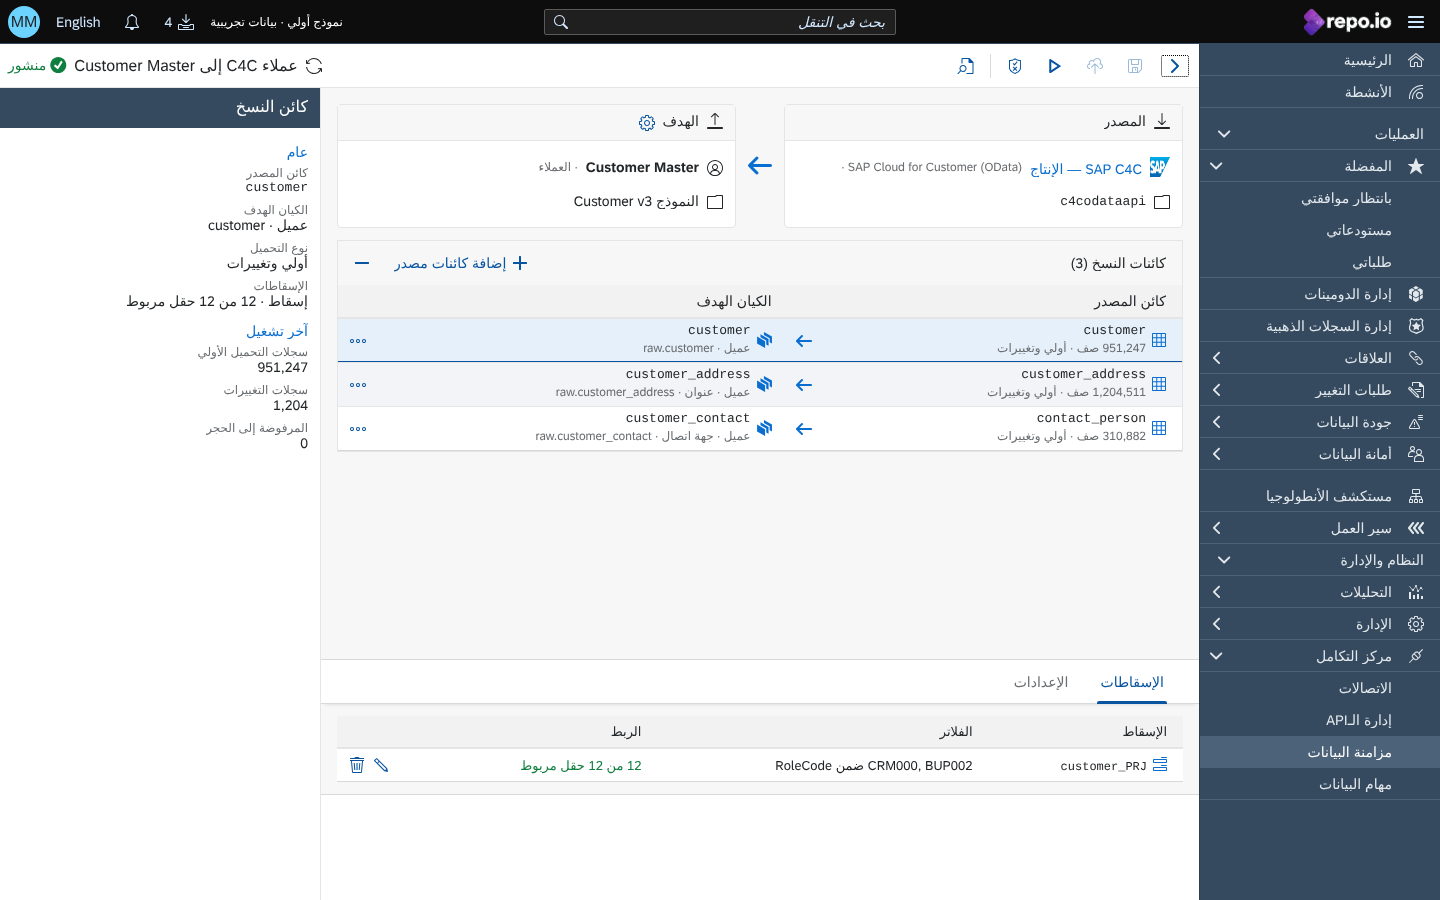
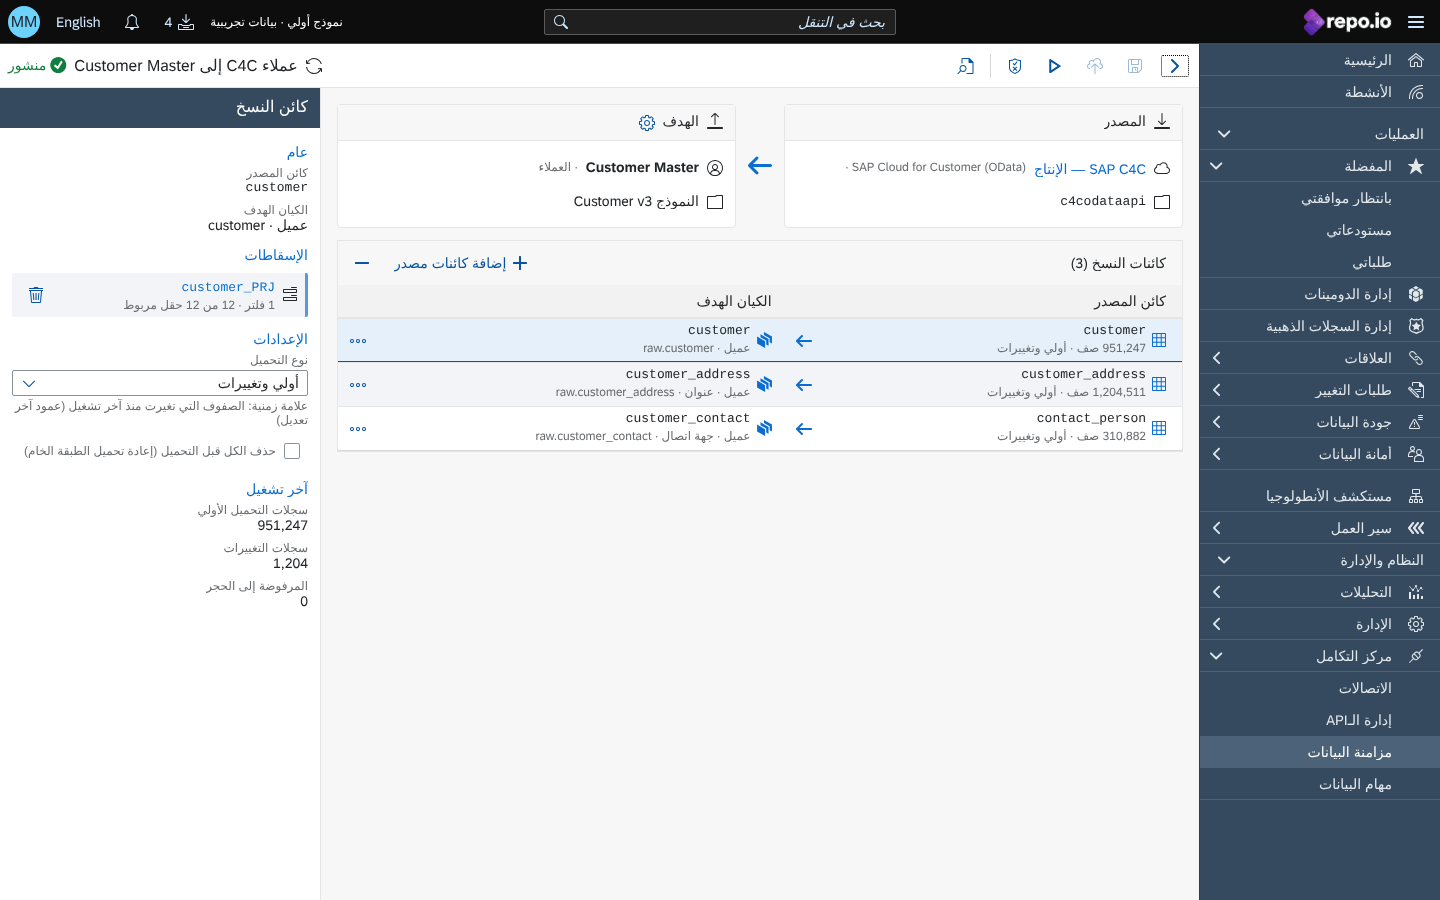
feat(repoio-ui): replication flow object properties in the side panel and Datasphere-style projection filter
- object Projections (Add), Settings (Load Type, Delete All Before Loading) and
  last run move into the properties panel; the bottom tabs are removed
- projection Filter tab: source column list + expressions
- J15 and README updated

Claude-Session: https://claude.ai/code/session_014MwTwj4qVcnTAy3XtzTwBt

diff --git a/repoio-ui/design-reference/openui5-prototype/webapp/controller/DataSync.controller.js b/repoio-ui/design-reference/openui5-prototype/webapp/controller/DataSync.controller.js
@@ -102,9 +102,10 @@ sap.ui.define([
 			vm.setProperty("/sf/oLoadText", this.text(o.load === "delta" ? "ds.load.delta" : "ds.load.initial"));
 			vm.setProperty("/sf/deltaText", this.text("ds.dm." + S.deltaMethod(conn)));
 			vm.setProperty("/sf/oMapText", (o.projection ? this.text("ds.pjOn") : this.text("ds.pjOff")) + " · " + mapText);
-			vm.setProperty("/sf/oProj", o.projection ? [{ name: o.projectionName || o.source.replace(/^.*\./, "") + "_PRJ",
-				filterText: (o.filters || []).length ? o.filters.map(function (x) { return x.col + " " + that.text("ds.op." + x.op + "S") + " " + x.val; }).join("; ") : this.text("ds.noFilter"),
-				mapText: mapText, mapState: okReq ? "Success" : "Error" }] : []);
+			vm.setProperty("/sf/oPrjName", o.projectionName || o.source.replace(/^.*\./, "") + "_PRJ");
+			vm.setProperty("/sf/oPrjSub", ((o.filters || []).length ? this.text("ds.prjFilters", [o.filters.length]) : this.text("ds.noFilter")) + " · " + mapText);
+			var missing = fields.filter(function (x) { return x.req && !o.mapping[x.name]; }).map(function (x) { return x.name; });
+			vm.setProperty("/sf/oMissing", missing.length ? this.text("ds.pj.missing", [missing.join(", ")]) : "");
 			var l = o.last || {};
 			vm.setProperty("/sf/oInitial", l.initial ? this.fmt.num(l.initial) : "—");
 			vm.setProperty("/sf/oDelta", l.initial ? this.fmt.num(l.delta || 0) : "—");
@@ -275,7 +276,7 @@ sap.ui.define([
 				], itemSelected: function (e) {
 					var k = e.getParameter("item").getKey();
 					if (!k) { return; }
-					if (k === "__pj") { that._select(i); that.viewModel().setProperty("/sf/tab", "projections"); that.onProjection(); return; }
+					if (k === "__pj") { that._select(i); that.onProjection(); return; }
 					o.entity = k; o.mapping = that._autoMap(o.source, k); that._dirty();
 				} });
 			this.getView().addDependent(oMenu);
@@ -306,7 +307,7 @@ sap.ui.define([
 			var that = this, vm = this.viewModel(), o = this._f.objects[vm.getProperty("/sf/selIdx")],
 				src = (this._sync.source[o.source] || []), fields = this._sync.entities[o.entity] || [];
 			vm.setProperty("/pj", {
-				title: this.text(o.projection ? "ds.pj.editTitle" : "ds.addProjection"), tab: o.projection ? "mapping" : "filters",
+				title: this.text(o.projection ? "ds.pj.editTitle" : "ds.addProjection"), tab: "filters",
 				name: o.projectionName || o.source.replace(/^.*\./, "") + "_PRJ", srcName: o.source, tgtName: o.entity,
 				filters: JSON.parse(JSON.stringify(o.filters || [])), mapping: JSON.parse(JSON.stringify(o.mapping)),
 				cols: src, src: src.map(function (c) { return { name: c.name, label: c.label, type: c.type === "code" ? "string" : c.type, key: c.key }; }),
@@ -316,6 +317,7 @@ sap.ui.define([
 					hint: this.text("ds.pj.mapperHint"), count: this.text("fd.map.count"), fxTip: this.text("ds.pj.fxTip"), fx: {} }
 			});
 			this._pjTabs();
+			this._pjCols();
 			var open = function (d) { d.open(); };
 			if (this._pj) { open(this._pj); return; }
 			Fragment.load({ id: this.getView().getId(), name: "repoio.proto.fragment.Projection", controller: this }).then(function (d) {
@@ -333,9 +335,23 @@ sap.ui.define([
 			vm.setProperty("/pj/valid", !!String(p.name || "").trim() && !badFilter);
 		},
 		onPjCheck: function () { this._pjTabs(); },
-		onPjAddFilter: function () {
+		/* Filter tab: the left list of source columns drives the expression rows on the right. */
+		_pjCols: function () {
+			var vm = this.viewModel(), p = vm.getProperty("/pj"), q = (p.colQ || "").toLowerCase(),
+				used = p.filters.map(function (f) { return f.col; }),
+				ic = { date: "sap-icon://calendar", integer: "sap-icon://number-sign", decimal: "sap-icon://number-sign", code: "sap-icon://list" };
+			vm.setProperty("/pj/colRows", p.cols.filter(function (c) { return !q || (c.name + " " + c.label).toLowerCase().indexOf(q) > -1; }).map(function (c) {
+				return { name: c.name, label: c.label, selected: used.indexOf(c.name) > -1, icon: ic[c.type] || "sap-icon://text" };
+			}));
+		},
+		onPjColSearch: function () { this._pjCols(); },
+		onPjColSelect: function (oEvent) {
 			var vm = this.viewModel(), a = vm.getProperty("/pj/filters").slice();
-			a.push({ col: "", op: "eq", val: "" });
+			oEvent.getParameter("listItems").forEach(function (li) {
+				var n = li.getBindingContext("view").getProperty("name");
+				if (li.getSelected()) { if (!a.some(function (f) { return f.col === n; })) { a.push({ col: n, op: "eq", val: "" }); } }
+				else { a = a.filter(function (f) { return f.col !== n; }); }
+			});
 			vm.setProperty("/pj/filters", a);
 			this._pjTabs();
 		},
@@ -344,6 +360,7 @@ sap.ui.define([
 			a.splice(i, 1);
 			vm.setProperty("/pj/filters", a);
 			this._pjTabs();
+			this._pjCols();
 		},
 		onPjMapping: function (oEvent) { this.viewModel().setProperty("/pj/mapping", oEvent.getParameter("mapping")); this._pjTabs(); },
 		onPjTransform: function () { MessageToast.show(this.text("ds.t.noTransform")); },

diff --git a/repoio-ui/design-reference/openui5-prototype/webapp/css/style.css b/repoio-ui/design-reference/openui5-prototype/webapp/css/style.css
@@ -732,3 +732,13 @@ html[dir="rtl"] .repoioJdArrow { transform: scaleX(-1); }
 .repoioPjTabs.sapMITB { height: 100%; }
 .repoioPjTabs .sapMITBContainerContent { height: 100%; }
 .repoioPjBody { padding: 0.75rem 1rem; height: 100%; box-sizing: border-box; overflow: auto; }
+.repoioPjFilter { display: flex; gap: 1rem; padding: 0 !important; }
+.repoioPjCols { flex: none; width: 17rem; display: flex; flex-direction: column; border-inline-end: 1px solid #e5e5e5; padding: 0.75rem 0.5rem; overflow: auto; }
+.repoioPjColList .sapMLIB { min-height: 2.25rem; }
+.repoioPjExpr { flex: 1 1 auto; min-width: 0; padding-block: 0.75rem; padding-inline-end: 1rem; overflow: auto; }
+.repoioRfPrj { height: auto !important; padding-block: 0.25rem; }
+.repoioRfPrjText { flex: 1 1 auto; min-width: 0; }
+.repoioPjColList .sapMLIB { min-height: 2.25rem !important; height: 2.25rem; }
+.repoioPjCol { width: 100%; gap: 0.25rem; padding-inline-end: 0.5rem; min-width: 0; }
+.repoioPjColLbl { margin-inline-start: auto; max-width: 6.5rem; flex: 0 1 auto; overflow: hidden; text-overflow: ellipsis; }
+.repoioPjCol .repoioMono { flex: 0 1 auto; min-width: 0; overflow: hidden; text-overflow: ellipsis; }

diff --git a/repoio-ui/design-reference/openui5-prototype/README.md b/repoio-ui/design-reference/openui5-prototype/README.md
@@ -42,7 +42,7 @@ history. Every other navigation item opens the planned-page placeholder.
 | `#/analytics/studio/{id}/{mode}` | Analytics studio (J14) | SAP Analytics Cloud story designer: toolbar (save, insert chart / numeric point, story filter, linked analysis, broadcast, Designer / View), page tabs, grid canvas of tiles, tile "⋯" menu (sort, rank, linked analysis, compare, show / hide labels and legend, duplicate, export, full screen, pin to Home, remove), Builder panel (data source, chart structure, measure, dimension, colour, filters). Measures come from the governed KPI catalog. `id` = `new` opens an empty story |
 | `#/analytics/broadcasts` | Broadcasts (J14) | SAP C4C broadcast flow in the explorer layout: list (name, object, format and ZIP, schedule, recipients, last run with skipped / failed details, next run, owner, status), Start now / Pause / Resume / Edit / Delete; new broadcast dialog (object type, name, object, view or page, subject, message, recipients with an access warning, format, ZIP, sign-in link, schedule). `?report=<id>` opens a new broadcast for that report |
 | `#/integration/sync` | Data sync (J15) | Replication flows in the Repository Explorer layout: actions (new, edit, deploy, run, delete never-deployed), collections (all, my flows, needs attention), facets with counts (source connection, target domain, status), table (business name, technical name, source connection with logo, target repository, objects, load type, delta interval, status, last run, owner, changed on), Previous / Next paging |
-| `#/integration/sync/{id}` | Replication flow editor (J15) | SAP Datasphere replication flow steps: Select Source Connection (compact picker with health) → Select Source Container → Select Target (repository; its model version is the target container) → Add Source Objects (browse, Next, review proposed target entities, Add Selection); rows source object → target entity with additional options (map to another domain entity; rename disabled); object tabs Projections (one projection: filters + field mapper) and Settings (load type, truncate = reload raw); properties panel (General, Run settings with delta load interval in hours / minutes; object last-run counts); target settings (delta capture, rejected rows to Quarantine); icon toolbar save (name dialog for a new flow), deploy, run, validate with messages, open in Job runs |
+| `#/integration/sync/{id}` | Replication flow editor (J15) | SAP Datasphere replication flow steps: Select Source Connection (compact picker with health) → Select Source Container → Select Target (repository; its model version is the target container) → Add Source Objects (browse, Next, review proposed target entities, Add Selection); rows source object → target entity with additional options (map to another domain entity; rename disabled); properties panel that switches between the flow (General, Run settings with delta load interval in hours / minutes) and the selected object (General, Projections with Add, Settings: Load Type and Delete All Before Loading = reload raw, Last run counts); projection dialog (name, Filter: column list + expressions, Mapping: field mapper with unmapped required fields); target settings (delta capture, rejected rows to Quarantine); icon toolbar save (name dialog for a new flow), deploy, run, validate with messages, open in Job runs |
 | `#/jobs/runs` | Data jobs: job runs (J10) | Databricks Lakeflow Jobs "Runs" tab: filters (job name, type: ingestion / MDM stream / data quality / housekeeping, run as everyone or me, time range 24 h / 48 h / 7 days, run status, run ID, error code, clear), a "finished runs" stacked bar chart per time bucket (select a bar to show only that period), top error types (select one to filter), and the runs table (start time, job with technical name, type, run as, launched, duration with an overdue warning, status, error code, parameters, stop for active runs, row menu: open, open in Airflow, request replay, stop, copy run ID) with a column chooser remembered per browser. Smaller values in the table |
 | `#/jobs/runs/{runId}` | Run details (J10) | SAP Datasphere Data Integration Monitor: a resizable split. Left: the job (status, delta load interval, source with a link to its connection, target, runs on, owner), its schedule (frequency, latest update, next run), recent run durations as bars (a bar opens that run) and the runs list with sort and status filter; Run menu (run now, request replay, stop) and Schedule menu. Right: run details header (status, duration, start, end, run by, run type, launched, run ID, the Airflow DAG run link), the failing message, the tasks as a chain coloured by status (a task opens its Airflow task link), the objects table (source → target, load type, status, last transfer, records) and tabs: Messages (timestamp, category, message, view details; search, sort, category filter), Metrics of the selected object (duration, operations, partitions, state; consumer lag and checkpoint for streams) and Data quality (Great Expectations results per expectation; quarantined records with a link to Quarantine). Download the run log, expand, close. Replay is a governed request with scope, idempotency key, approver and reason. Airflow links show the DAG / run / task IDs and the link template; the base URL belongs to the Airflow connection, so the prototype does not open it |
 | `#/page/{key}` | Every other page in `docs/ui-pages.md` | Planned-page placeholder with the page scope and journey |

diff --git a/docs/user-journey.md b/docs/user-journey.md
@@ -509,24 +509,30 @@ system (J9); sync = what to bring and when; job run = each execution (J10).*
    - The row's additional options (…) can map it to another entity of the
      domain.
    - **Rename is disabled**, since targets are model entities.
-4. Selecting an object opens the **Projections** and **Settings** tabs.
-   - **Projections:** one projection per object. It has a name, row
-     filters, and the mapping of source columns to model fields (field
-     mapper with auto-map). Unmapped required fields are listed at the
-     top of the Mapping tab. Apply needs a name and complete filters.
-     Without a projection, columns map by name.
+4. Selecting an object switches the properties panel to that object, as
+   Datasphere does.
+   - **General:** the source object and the target entity.
+   - **Projections:** one projection per object, added with **Add**. The
+     projection dialog has a name and two tabs:
+     - **Filter:** pick source columns in the column list, then set their
+       expressions.
+     - **Mapping:** source columns → model fields in the field mapper,
+       with auto-map. Unmapped required fields are listed.
+
+     Apply needs a name and complete filters. Without a projection,
+     columns map by name.
    - **Settings:**
-     - **Load type** is "Initial only" or "Initial and delta". Change
+     - **Load Type:** "Initial only" or "Initial and delta". Change
        detection comes from the source type: a watermark column, change
        data capture, or a full load per upload.
-     - **Truncate** reloads raw. It never deletes golden records; rows
-       missing from the source are flagged for stewards.
+     - **Delete All Before Loading** reloads raw only. It never deletes
+       golden records; rows missing from the source are flagged for
+       stewards.
+   - **Last run:** initial, delta and rejected record counts.
 5. The properties panel shows:
    - **General:** business name, technical name, status, owner.
    - **Run settings:** delta load interval in hours and minutes, or "On
      each upload" for files.
-   - For a selected object: its last-run record counts (initial, delta,
-     rejected).
    - The target settings icon shows the fixed target behaviour: delta
      capture in raw, and rejected rows go to Quarantine.
 6. Saving a new flow asks for its business and technical name; the
